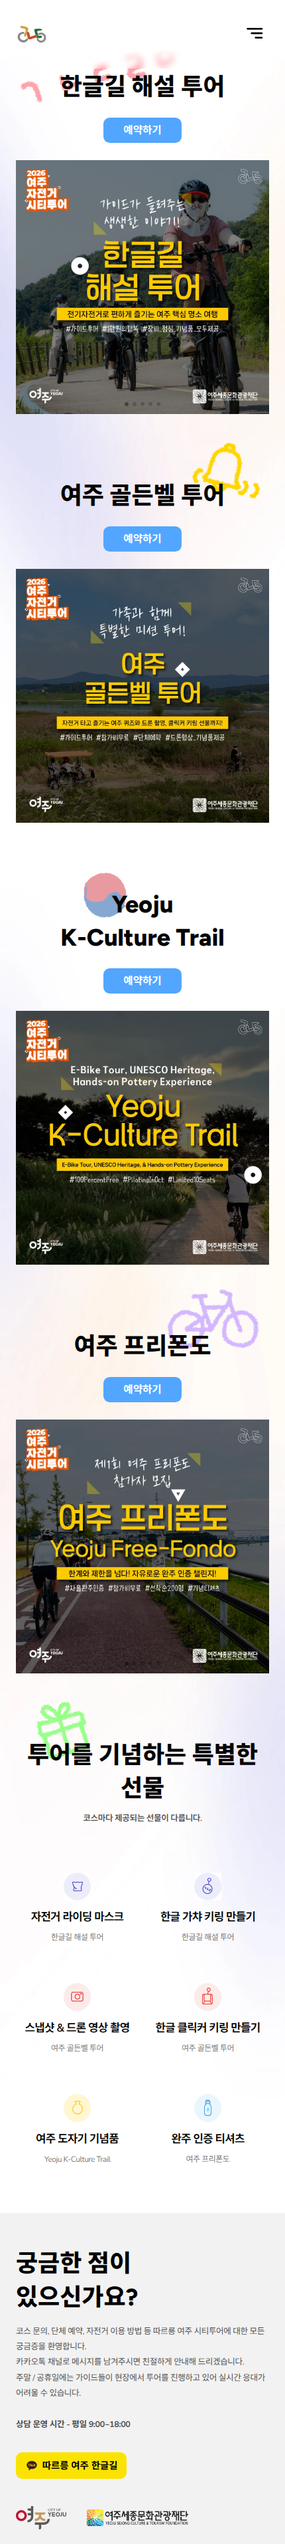
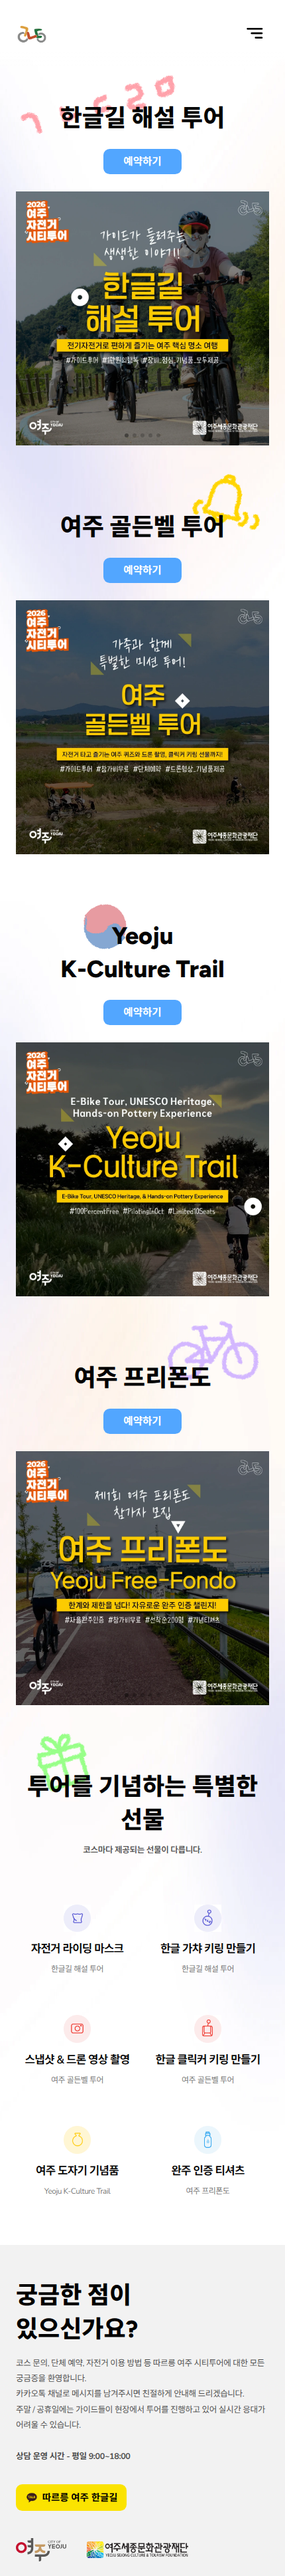
Move mobile course content below header

Changed region(s): [[0.0605, 0.0, 0.9674, 0.7461], [0.0605, 0.7461, 0.8465, 0.9948], [0.5442, 0.7461, 0.907, 0.8704]]

diff --git a/src/features/courses/CoursesPage.module.css b/src/features/courses/CoursesPage.module.css
@@ -274,7 +274,7 @@
 @media (max-width: 767px) {
   .main {
     width: 100%;
-    padding: 3px var(--page-gutter) 0;
+    padding: 50px var(--page-gutter) 0;
   }
 
   .courseList {
